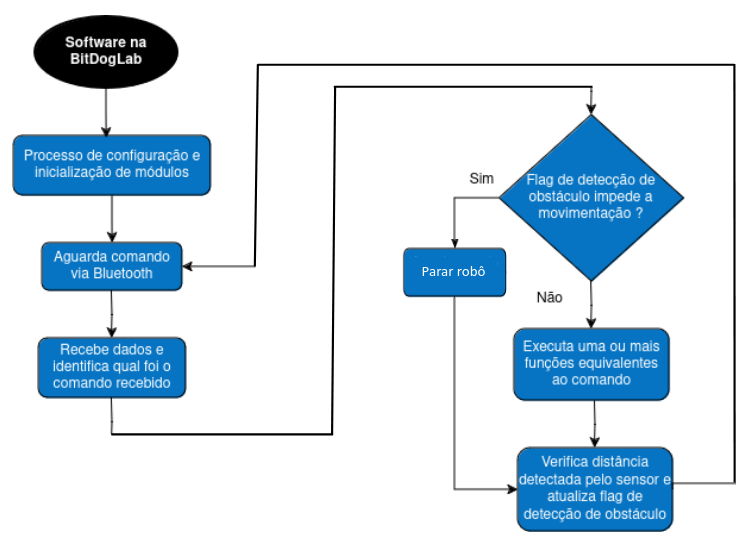
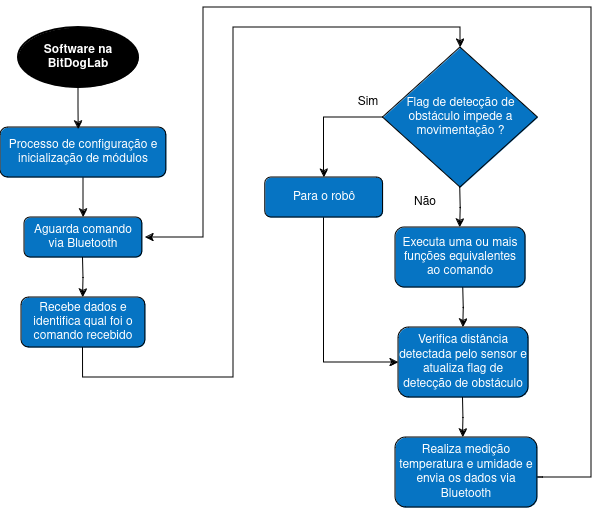
Atualiza fluxogramas do BitMóvel Explorador

Changed region(s): [[0.0, 0.0, 0.9884, 1.0]]

diff --git a/Projeto3/BitMovel-Robo-Explorador/main.py b/Projeto3/BitMovel-Robo-Explorador/main.py
@@ -321,9 +321,7 @@ def verifica_distancia():
     duracao_pulso = tempo_sinal_alto - tempo_sinal_baixo
     distancia_cm = (duracao_pulso * VELOCIDADE_SOM) / (2 * 10000)
     
-            
     return distancia_cm
-
 
 # Inicia com os motores parados
 leds_rodas("parar")

diff --git a/Projeto3/BitMovel-Robo-Explorador/README.md b/Projeto3/BitMovel-Robo-Explorador/README.md
@@ -92,4 +92,4 @@ O arquivo *bluetooth_explorador.aia* disponibilizado nesse repositório contém 
 
 ## TODO
 
-Atualizar instruções sobre sensor de temperatura, fluxograma da BitDogLab e do aplicativo de celular, QR Code e arquivos .aia e .apk.
+Atualizar instruções sobre sensor de temperatura, QR Code e arquivos .aia e .apk.
